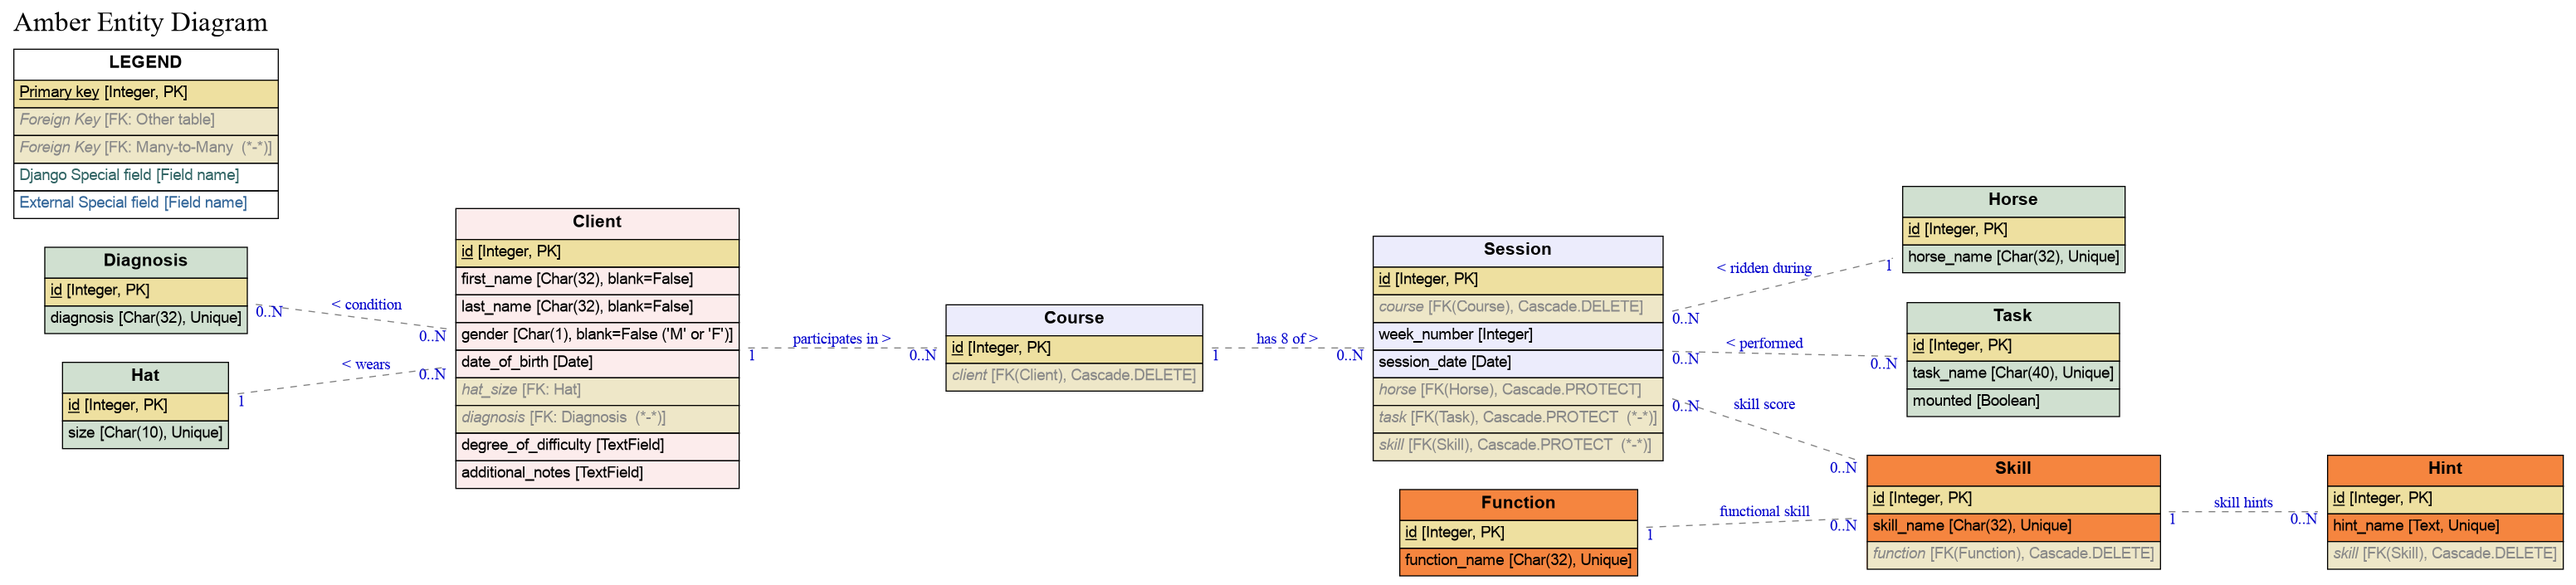
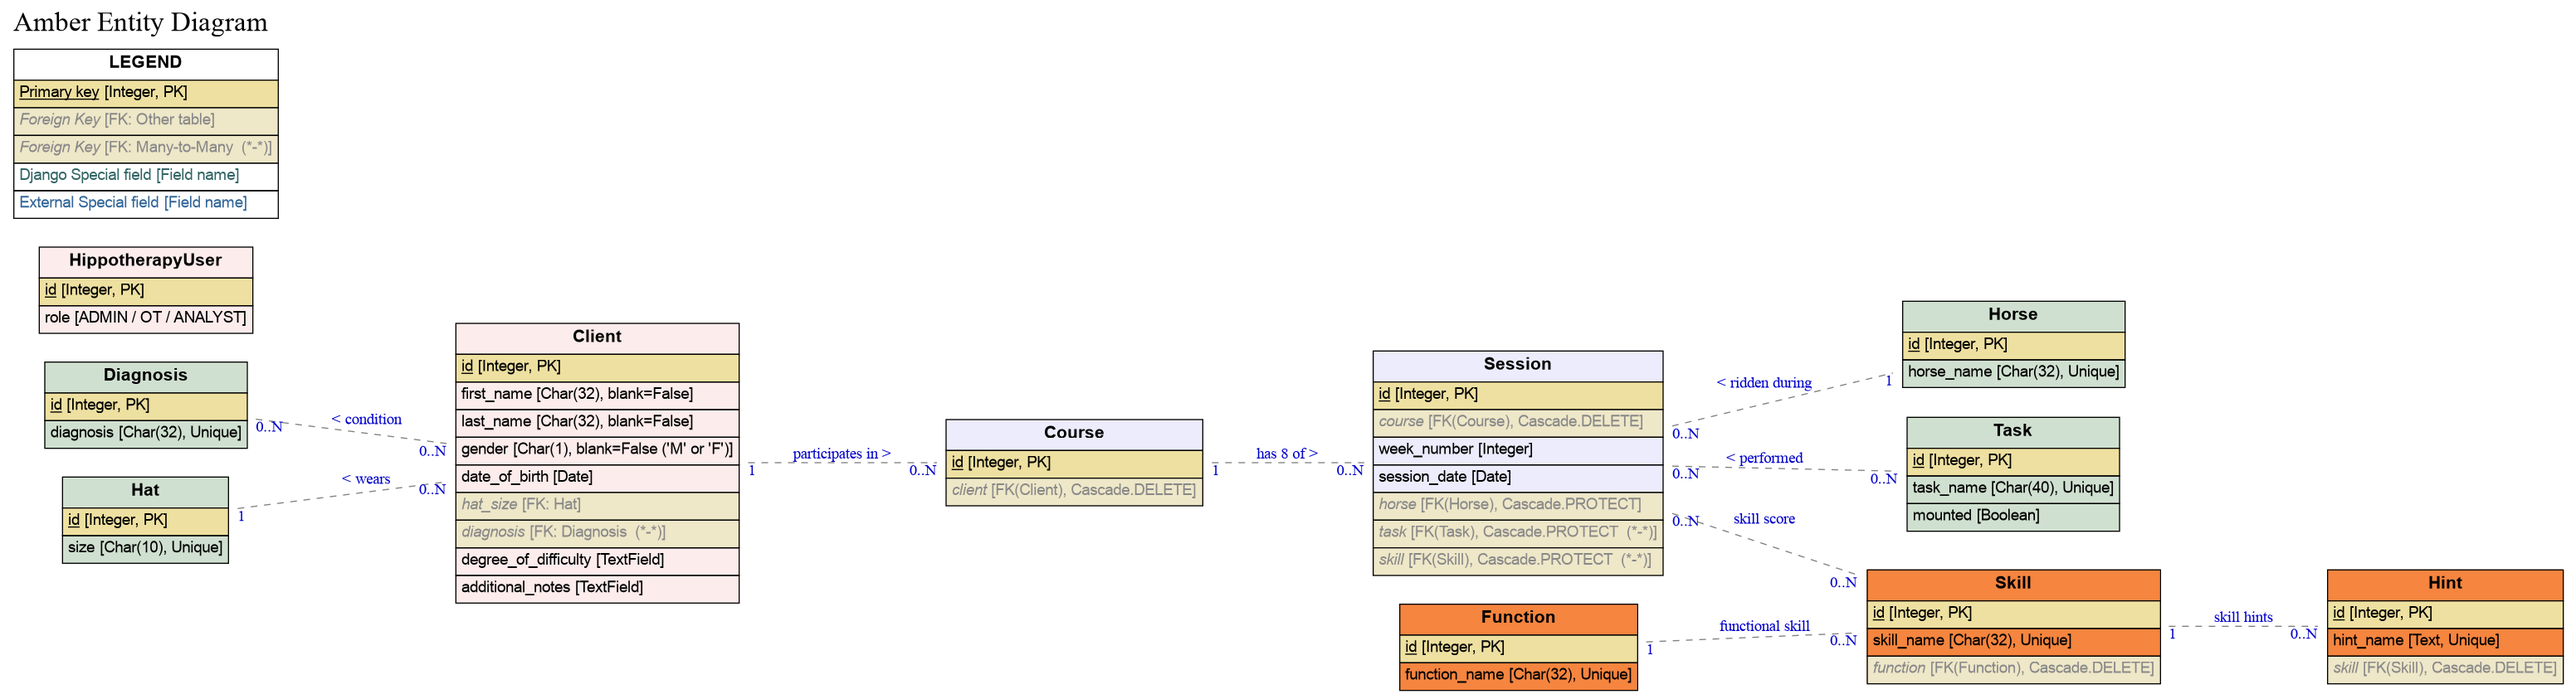
DOC: Include HippotherapyUsers in Enity-Relationship

Changed region(s): [[0.5, 0.3121, 1.0, 0.9986], [0.0, 0.0, 0.5, 0.8738]]

diff --git a/README.md b/README.md
@@ -174,6 +174,10 @@ The Django structure for the amber application is broken into 2 apps.
 
 2. hippotherary
 	The app contains all the code for pages that an Occupational Therapist and Hippotherapy Analyst will interact with.
+	
+3.	profiles
+	This app contains all the code for managing user accounts, including defining roles to be used for authentication.
+
 
 
 ## UX
